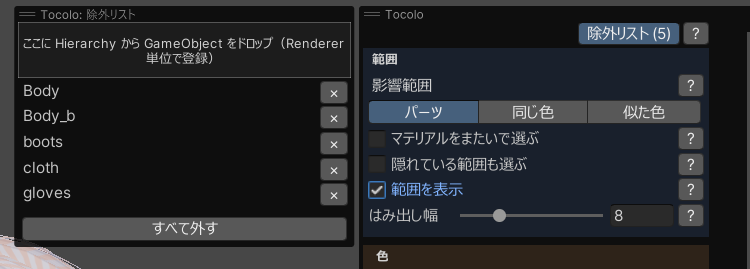
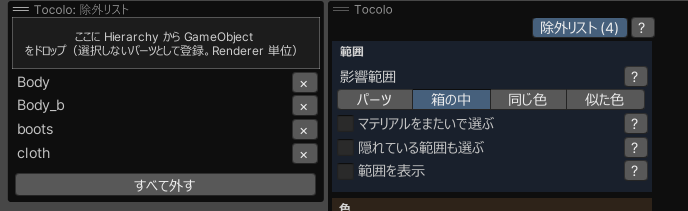
0.3.0: 影響範囲「箱の中」のページを追加、図 8 差し替え

Changed region(s): [[0.0, 0.0, 1.0, 1.0], [0.8852, 0.7678, 0.9462, 0.8531]]

diff --git a/index.html b/index.html
@@ -75,10 +75,10 @@ td.c{ text-align:center; font-weight:700; }
   <div class="hue"></div>
   <p class="sub"><span class="nb">Scene</span> でクリックした場所の色を、陰影を保ったまま変える Unity エディタ拡張</p>
   <div class="meta">
-    <span>対応版</span><span><span class="nb">Tocolo</span> <span class="nb">0.2.1</span> ／ <span class="nb">Tocolo Pro</span> <span class="nb">0.2.1</span></span>
+    <span>対応版</span><span><span class="nb">Tocolo</span> <span class="nb">0.3.0</span> ／ <span class="nb">Tocolo Pro</span> <span class="nb">0.3.0</span></span>
     <span>動作環境</span><span><span class="nb">Unity 2022.3</span>、VRChat SDK Avatars 3.7.0 以降、<span class="nb">NDMF</span> 1.14.0 以降</span>
     <span>作者</span><span>nekoare</span>
-    <span>更新</span><span>2026-09-28</span>
+    <span>更新</span><span>2026-09-29</span>
   </div>
   <div class="foot"><span><span class="nb">Tocolo</span> 操作説明書</span><span>表紙</span></div>
 </section>
@@ -90,13 +90,13 @@ td.c{ text-align:center; font-weight:700; }
     <span>1</span><span class="d"><span class="nb">Tocolo</span> でできること・体験版と Pro の違い</span><span>3</span>
     <span>2</span><span class="d">導入と削除のしかた</span><span>4</span>
     <span>3</span><span class="d">基本操作（開始・クリック・色を選ぶ・終了）</span><span>5</span>
-    <span>4</span><span class="d">範囲の調整（影響範囲・複数選択・除外リスト）</span><span>6</span>
-    <span>5</span><span class="d">色の調整（<span class="nb">色 1／色 2</span>・陰影・不透明度・スポイト）</span><span>7</span>
-    <span>6</span><span class="d">グラデーション</span><span>9</span>
-    <span>7</span><span class="d">対象アバターとオーバーレイの操作</span><span>10</span>
-    <span>8</span><span class="d">Pro: アップロード時の反映と書き出し</span><span>11</span>
-    <span>9</span><span class="d">注意事項とトラブルシューティング</span><span>12</span>
-    <span>10</span><span class="d">用語と操作の一覧</span><span>14</span>
+    <span>4</span><span class="d">範囲の調整（影響範囲・複数選択・除外リスト・箱の中）</span><span>6</span>
+    <span>5</span><span class="d">色の調整（<span class="nb">色 1／色 2</span>・陰影・不透明度・スポイト）</span><span>9</span>
+    <span>6</span><span class="d">グラデーション</span><span>10</span>
+    <span>7</span><span class="d">対象アバターとオーバーレイの操作</span><span>11</span>
+    <span>8</span><span class="d">Pro: アップロード時の反映と書き出し</span><span>12</span>
+    <span>9</span><span class="d">注意事項とトラブルシューティング</span><span>13</span>
+    <span>10</span><span class="d">用語と操作の一覧</span><span>15</span>
   </div>
   <h3>この説明書の読み方</h3>
   <ul>
@@ -188,10 +188,11 @@ td.c{ text-align:center; font-weight:700; }
 <!-- 4 -->
 <section class="page">
   <h2>4. 範囲の調整 <span class="tag range">範囲</span></h2>
-  <h3>影響範囲（3 モード）</h3>
+  <h3>影響範囲（4 モード）</h3>
   <table>
     <tr><th>モード</th><th>選ばれる範囲</th><th>向いている場面</th></tr>
     <tr><td><b>パーツ</b></td><td>クリックしたパーツ（<span class="nb">UV</span> のひとかたまり）をまるごと</td><td>袖・襟・リボンなど、パーツ単位で変えたいとき</td></tr>
+    <tr><td><b>箱の中</b></td><td>パーツや <span class="nb">UV</span> の切れ目に関係なく <span class="nb">Scene</span> に出る箱の内側を塗る。「マテリアルをまたいで選ぶ」ON なら箱に触れる別テクスチャも連結</td><td>髪のツートン、袖の先だけ、腰から下だけなど、場所で切りたいとき</td></tr>
     <tr><td><b>同じ色</b></td><td>クリックした場所とほぼ同じ色で、途切れずにつながる部分</td><td>模様や線、単色の帯</td></tr>
     <tr><td><b>似た色</b></td><td>近い色を広めに。しきい値を大きめに取った状態</td><td>グラデーションや影のある部分</td></tr>
   </table>
@@ -209,11 +210,18 @@ td.c{ text-align:center; font-weight:700; }
     <div class="block range">
       <h3>共通</h3>
       <dl class="term">
-        <dt>はみ出し幅</dt><dd>パーツのまわりの <span class="nb">UV</span> で使われていない部分まで色を広げる幅（px）。つなぎ目に元の色の線が見えるときは上げます</dd>
+        <dt>はみ出し幅</dt><dd>パーツのまわりの <span class="nb">UV</span> で使われていない部分まで色を広げる幅（px）。つなぎ目に元の色の線が見えるときは上げます。マイナスにすると逆に縁を削ります</dd>
         <dt>範囲を表示</dt><dd>いまの編集の範囲を縞模様で表示。アップロードには影響しません</dd>
       </dl>
     </div>
   </div>
+  <div class="foot"><span>4. 範囲の調整</span><span>6</span></div>
+</section>
+
+
+<!-- 4 (続き) -->
+<section class="page">
+  <h2>4. 範囲の調整（続き） <span class="tag range">範囲</span></h2>
   <h3>複数のパーツをまとめて変える</h3>
   <ul>
     <li><kbd>Ctrl</kbd>＋クリック: 同じ編集にパーツ（点）を足す／外す。離れたパーツを 1 つの色で揃えたいときに使います。</li>
@@ -222,13 +230,6 @@ td.c{ text-align:center; font-weight:700; }
     <li><b>マテリアルをまたいで選ぶ</b>: ON にすると、別のマテリアル（別のテクスチャ）のパーツも同じ編集に足せます。テクスチャごとの編集が自動で連結され、色や設定はまとめて効きます。</li>
     <li><b>各点の色を揃える</b>（点が複数のときに表示）: ON では点ごとに明るさの分布を取ってそれぞれを目標の色に揃えます。OFF では全体で 1 つの分布を取るので、点どうしの明るさの差が保たれます。</li>
   </ul>
-  <div class="foot"><span>4. 範囲の調整</span><span>6</span></div>
-</section>
-
-
-<!-- 4 (続き) -->
-<section class="page">
-  <h2>4. 範囲の調整（続き） <span class="tag range">範囲</span></h2>
   <h3>誤って選びたくないパーツを外す（除外リスト）</h3>
   <p>エリア選択などで巻き込みたくないパーツは、その <span class="nb">Renderer</span> を除外リストに登録します。登録した <span class="nb">Renderer</span> は <span class="nb">Scene</span> でクリックしてもエリア選択で囲んでも選ばれません。見た目には影響しません（共有テクスチャに掛かった編集はそのまま映り、アップロードや書き出しも通常どおりです）。</p>
   <ul>
@@ -241,6 +242,38 @@ td.c{ text-align:center; font-weight:700; }
   <div><div class="fig" style="padding:4px"><img src="img/fig8.png" alt="除外リストのオーバーレイ" style="max-height:70mm;width:auto"></div><div class="cap"><span class="nb">図 8</span>　除外リストのオーバーレイ。ドロップ枠に <span class="nb">GameObject</span> を落とすと <span class="nb">Renderer</span> 単位で並ぶ。パネルのボタンには件数が出る</div></div>
   </div>
   <div class="foot"><span>4. 範囲の調整（続き）</span><span>7</span></div>
+</section>
+
+<!-- 4 (箱の中) -->
+<section class="page">
+  <h2>4. 範囲の調整（箱の中） <span class="tag range">範囲</span></h2>
+  <p>「箱の中」は、<span class="nb">Scene</span> に出る水色の箱の内側だけを色変えします。パーツや <span class="nb">UV</span> の切れ目に関係なく、箱の面のところで色変えが切れるので、「袖の先だけ」「腰から下だけ」のように場所で区切りたいときに使います。クリックした場所はテクスチャと「元の色」を決めるためだけに使い、範囲は箱で決まります。</p>
+  <ol class="steps">
+    <li><span>影響範囲で「箱の中」を選ぶか、選んでから色を変えたい場所をクリックします。クリックしたパーツを囲む箱が出ます。</span></li>
+    <li><span>箱の中心のギズモで移動・回転・全体の拡大縮小ができます。各面の中央にある橙色の丸をつかむと、その面だけを引いて伸縮できます（マウスが乗ると黄色になります）。</span></li>
+    <li><span>箱を動かしている間は軽い計算で追従し、離した瞬間に切り口を細かく描き直します。</span></li>
+  </ol>
+  <div class="two">
+    <div class="block range">
+      <h3>箱の中の設定</h3>
+      <dl class="term">
+        <dt>面のぼかし</dt><dd>箱の面のところで色変えをなめらかに切る幅。0 だと面でぱきっと切れます（切り口の階段はそれでも自動でならします）</dd>
+        <dt>箱の中の色を揃える</dt><dd>ON にすると、箱に入るパーツごとに明るさの分布を取ってそれぞれを目標の色に揃えます（パーツ複数選択の「各点の色を揃える」と同じ）。OFF（既定）は箱の中全体で 1 つの分布なので、パーツどうしの明るさの差が残ります。ON でも箱を動かしている間は掛からず、離したときに掛かります</dd>
+        <dt>はみ出し幅</dt><dd>他のモードと同じ。マイナスで縁を削ります</dd>
+      </dl>
+    </div>
+    <div>
+      <h3>他の設定との関係</h3>
+      <ul>
+        <li><b>マテリアルをまたいで選ぶ</b>: ON なら、箱に触れる別テクスチャのパーツにも自動で連結して同じ色になります。箱を離したとき・作成時・ON にしたときに増減し、OFF にすると最初のテクスチャだけに戻ります。</li>
+        <li><b>除外リスト</b>: 箱の中では、除外した <span class="nb">Renderer</span> は箱に入っていても色が変わりません（他のモードと違い、見た目にも効きます）。編集中に除外リストを変えるとすぐ反映されます。</li>
+        <li><kbd>Ctrl</kbd>＋クリックやエリア選択でパーツを足す操作は、箱の中では使いません（範囲は箱だけで決まります）。</li>
+        <li>グラデーションと併用できます。グラデーション ON の間は選択の箱（水色）は隠れ、グラデーションの箱だけが出ます。選択の箱を直したいときはグラデーションを一度 OFF にしてください。</li>
+      </ul>
+    </div>
+  </div>
+  <div class="note"><b>切り口の細かさ</b>　切り口はプレビューの解像度のテクセル刻みです。粗く見えるときは「プレビューの解像度」を上げてください。アップロードと書き出しは常に元の解像度で処理されます。</div>
+  <div class="foot"><span>4. 範囲の調整（箱の中）</span><span>8</span></div>
 </section>
 
 <!-- 5 -->
@@ -266,7 +299,7 @@ td.c{ text-align:center; font-weight:700; }
     </dl>
   </div>
   <div class="note"><b>色が薄く見えるとき</b>　同じ色を指定したのに一部だけ薄い場合、そのマテリアルの側で <span class="nb">lilToon</span> の色調補正などが掛かっていることがあります。<span class="nb">Tocolo</span> の出力は同じでも、シェーダー側の補正で見え方が変わります。</div>
-  <div class="foot"><span>5. 色の調整</span><span>8</span></div>
+  <div class="foot"><span>5. 色の調整</span><span>9</span></div>
 </section>
 
 <!-- 6 -->
@@ -275,7 +308,7 @@ td.c{ text-align:center; font-weight:700; }
   <p>選んでいる範囲に、<span class="nb">Scene</span> 空間の位置で色を変えるグラデーションを入れます。「グラデーション」を ON にすると <span class="nb">Scene</span> に箱が出て、箱の下端の「<span class="nb">色 1</span>」から上端の「<span class="nb">色 2</span>」へ変化します。</p>
   <ol class="steps">
     <li><span>色ブロックの下にある「グラデーション」を ON にします。箱は選択範囲を囲む位置に出ます。</span></li>
-    <li><span>箱のハンドルで移動・回転・拡大縮小して、向きと範囲を決めます。箱の高さの方向がグラデーションの方向です。上下に反転させると<span class="nb">色 1</span> と<span class="nb">色 2</span> が入れ替わります。</span></li>
+    <li><span>箱のギズモで移動・回転・拡大縮小し、各面の橙色の丸でその面だけを伸縮して、向きと範囲を決めます。箱の高さの方向がグラデーションの方向です。上下に反転させると<span class="nb">色 1</span> と<span class="nb">色 2</span> が入れ替わります。</span></li>
     <li><span>「<span class="nb">色 2</span>」を選ぶと、見本行・ホイール・陰影の暗さ・不透明度が<span class="nb">色 2</span> のものになります（陰影の強調は<span class="nb">色 1</span> と共通）。<span class="nb">色 2</span> の初期値は元の色です。</span></li>
   </ol>
   <div><div class="fig" style="padding:4px"><img src="img/fig7.png" alt="グラデーション ON の Scene" style="max-height:95mm;width:auto"></div><div class="cap"><span class="nb">図 7</span>　グラデーション ON。<span class="nb">Scene</span> の箱を動かして向きと範囲を決める。パネルは「<span class="nb">色 2</span>」を選んだ状態で、<span class="nb">色 1 → 色 2</span> の見本と「箱の中だけ」が下に出る</div></div>
@@ -289,7 +322,7 @@ td.c{ text-align:center; font-weight:700; }
       <p>連結した編集にはグラデーションの設定も共通で効きます。箱は 1 つで、各パーツの位置に応じて混ざります。</p>
     </div>
   </div>
-  <div class="foot"><span>6. グラデーション</span><span>9</span></div>
+  <div class="foot"><span>6. グラデーション</span><span>10</span></div>
 </section>
 
 <!-- 7 -->
@@ -304,7 +337,7 @@ td.c{ text-align:center; font-weight:700; }
     <li>パネルが <span class="nb">Scene</span> の高さに収まらないときはホイールを小さくし、それでも収まらなければパネル内がスクロールになります。</li>
     <li>大きさを元に戻すには <b>Tools &gt; <span class="nb">Tocolo</span> &gt; オーバーレイの大きさをリセット</b>。</li>
   </ul>
-  <div class="foot"><span>7. 対象アバターとオーバーレイの操作</span><span>10</span></div>
+  <div class="foot"><span>7. 対象アバターとオーバーレイの操作</span><span>11</span></div>
 </section>
 
 <!-- 8 -->
@@ -327,7 +360,7 @@ td.c{ text-align:center; font-weight:700; }
     <li>各ボタンの <kbd>?</kbd> で説明が見出し付きで出ます。</li>
   </ul>
   <div><div class="fig" style="padding:4px"><img src="img/fig9.png" alt="Inspector の書き出し欄" style="max-height:62mm;width:auto"></div><div class="cap"><span class="nb">図 9</span>　<span class="nb">Inspector</span> の書き出し欄。上が「すべてのテクスチャ」の一括ボタン（右の ? で見出し付きの説明）、下がテクスチャごとの折りたたみ</div></div>
-  <div class="foot"><span>8. アップロード時の反映と書き出し</span><span>11</span></div>
+  <div class="foot"><span>8. アップロード時の反映と書き出し</span><span>12</span></div>
 </section>
 
 <!-- 9 -->
@@ -345,7 +378,7 @@ td.c{ text-align:center; font-weight:700; }
     <li>アニメーションや他ツールのマテリアル差し替え機能で後から割り当てられるマテリアルには反映されません（<span class="nb">Renderer</span> に最初から付いているマテリアルだけを見ます）。</li>
     <li>圧縮系のツール（<span class="nb">NDMF</span> の最適化フェーズで動くもの）とは共存できます。<span class="nb">Tocolo</span> の結果がそのまま圧縮の対象になります。</li>
   </ul>
-  <div class="foot"><span>9. 注意事項とトラブルシューティング</span><span>12</span></div>
+  <div class="foot"><span>9. 注意事項とトラブルシューティング</span><span>13</span></div>
 </section>
 
 <!-- 9 (続き) -->
@@ -361,10 +394,11 @@ td.c{ text-align:center; font-weight:700; }
     <tr><td>色を変えた部分がブロック状に潰れる</td><td>生成テクスチャの圧縮が「元と同じ」で、元が <span class="nb">BC1</span>（<span class="nb">DXT1</span>）のときに起きます。コンポーネントの「生成テクスチャの圧縮」を「高画質」にしてください</td></tr>
     <tr><td>アップロードしても色が変わらない</td><td>体験版では反映されません。<span class="nb">Pro</span> では「ビルド時に適用」が ON かを確認してください</td></tr>
     <tr><td><span class="nb">Scene</span> の操作が効かなくなった</td><td>オーバーレイのつまみを掴んだままになっている可能性があります。<span class="nb">Scene</span> をクリックするか 2 秒ほど待つと復帰します</td></tr>
+    <tr><td>書き出しが「一時的なマテリアル」で中止される</td><td>他のツールの <span class="nb">Scene</span> プレビューがマテリアルを差し替えています。そのプレビューを解除してから書き出してください（アップロードには影響しません）</td></tr>
     <tr><td>アバター容量が増えた</td><td>生成テクスチャの既定「高画質」は <span class="nb">BC1</span> の約 2 倍の容量です。コンポーネントの「生成テクスチャの圧縮」を PC は「元と同じ」、Quest は「標準」にすると元と同程度になります。圧縮系のツールで最適化している場合はそちらの設定が優先されます</td></tr>
   </table>
   <div><div class="fig" style="padding:4px"><img src="img/fig10.png" alt="生成テクスチャの圧縮の設定" style="max-height:60mm;width:auto"></div><div class="cap"><span class="nb">図 10</span>　<span class="nb">Inspector</span> の「生成テクスチャの圧縮」。PC と Quest を別々に選べる。既定は高画質。容量を優先するなら PC は「元と同じ」、Quest は「標準」</div></div>
-  <div class="foot"><span>9. 注意事項とトラブルシューティング（続き）</span><span>13</span></div>
+  <div class="foot"><span>9. 注意事項とトラブルシューティング（続き）</span><span>14</span></div>
 </section>
 
 <!-- 10 -->
@@ -398,7 +432,7 @@ td.c{ text-align:center; font-weight:700; }
   <h3>お問い合わせ</h3>
   <p>不具合報告・機能要望は BOOTH のメッセージ機能でお願いします。更新情報は同梱の CHANGELOG と配布 listing に反映されます。</p>
   <div class="hue" style="margin-top:8px"></div>
-  <div class="foot"><span>10. 用語と操作の一覧</span><span>14</span></div>
+  <div class="foot"><span>10. 用語と操作の一覧</span><span>15</span></div>
 </section>
 
 </div>
